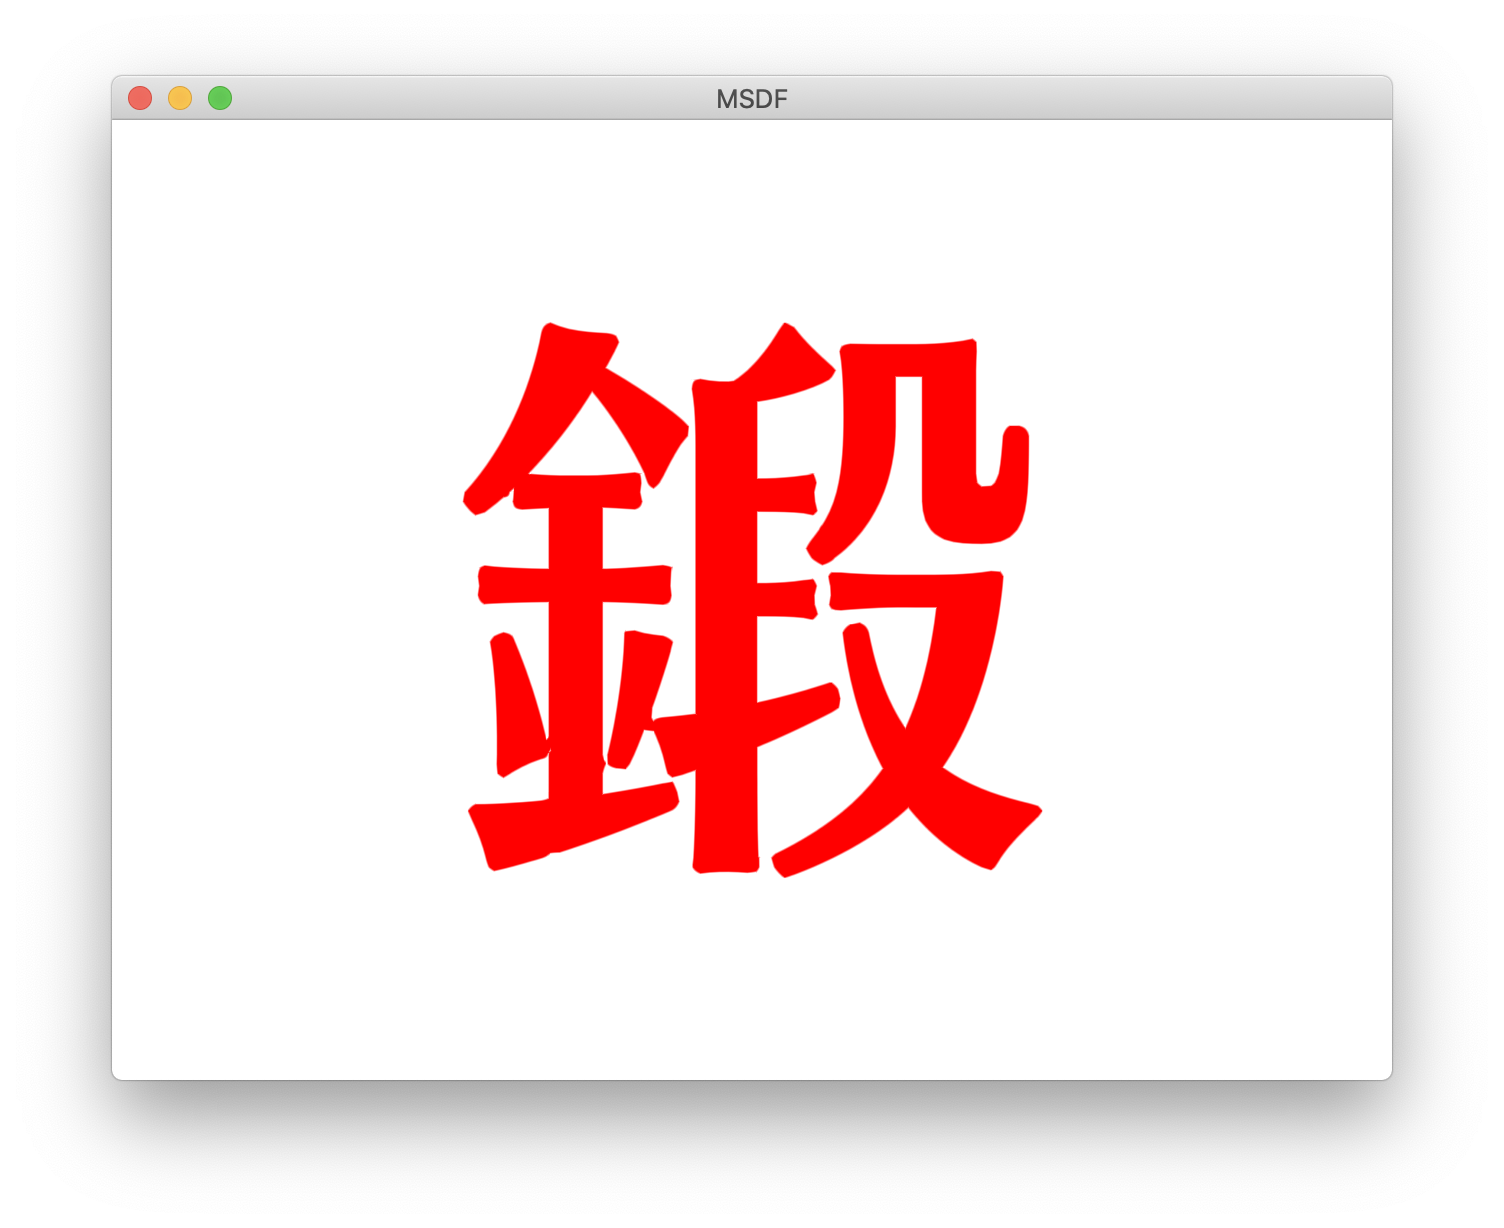
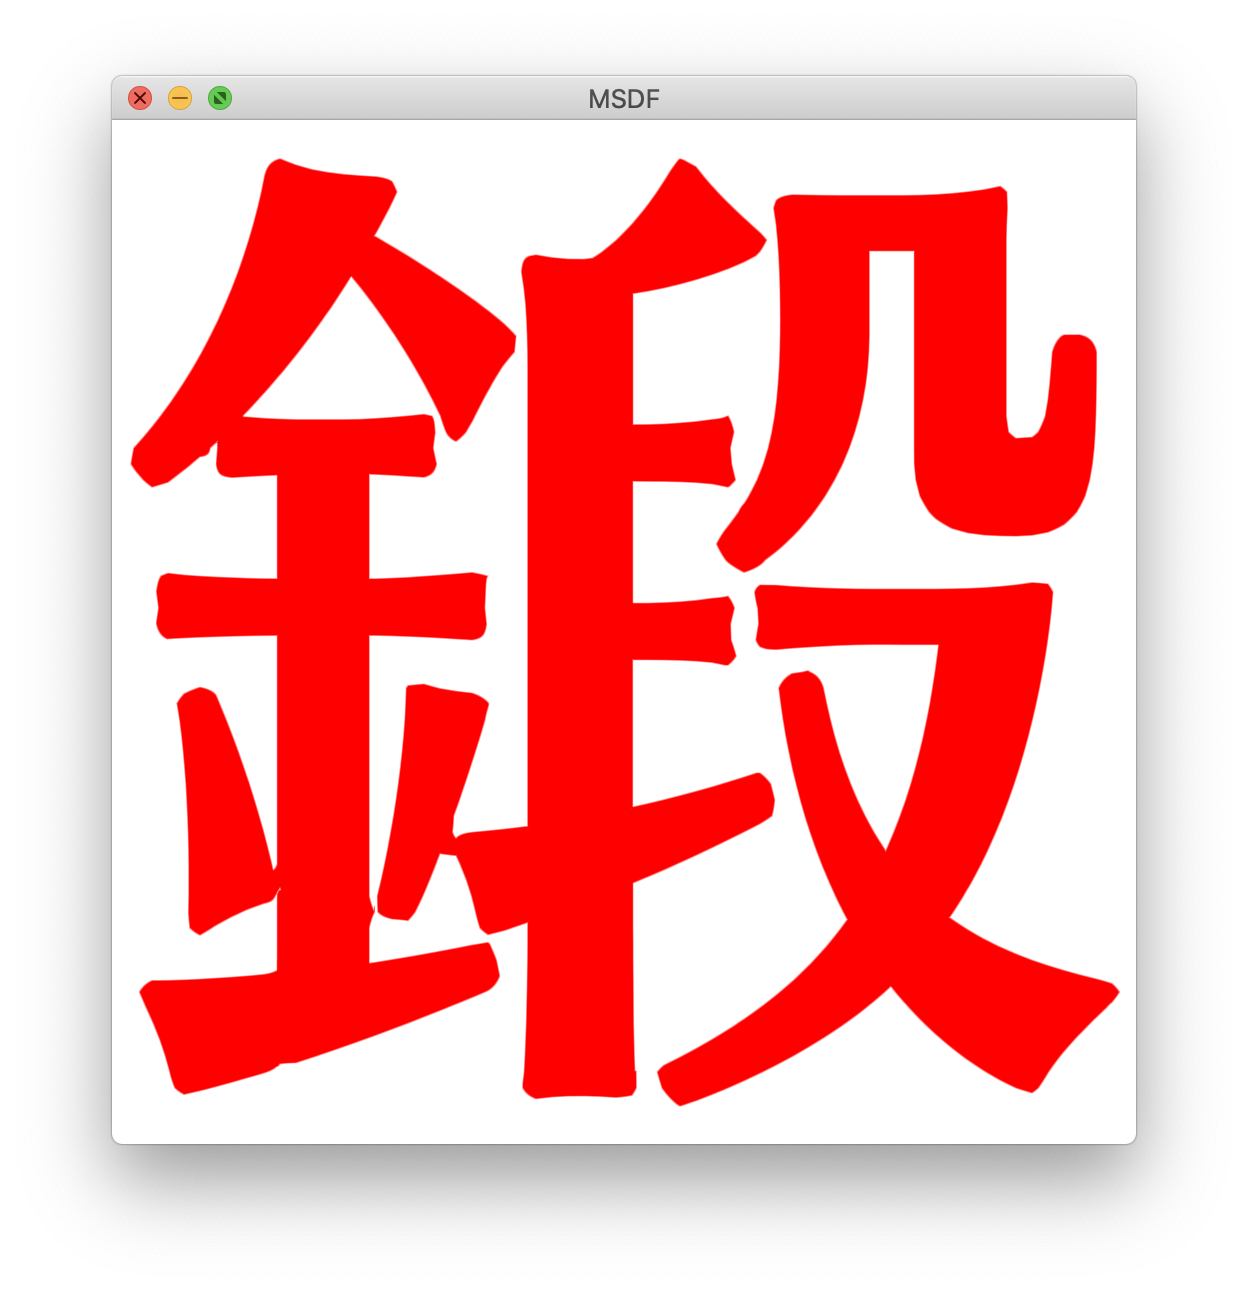
Code cleaning

diff --git a/gfx.go b/gfx.go
@@ -8,35 +8,10 @@ import (
 	"os"
 
 	"github.com/go-gl/gl/all-core/gl"
-	"github.com/go-gl/glfw/v3.2/glfw"
 )
 
-func textureLoad(rgba *image.RGBA) uint32 {
-	var texture uint32
-	gl.GenTextures(1, &texture)
-	gl.ActiveTexture(gl.TEXTURE1)
-	gl.BindTexture(gl.TEXTURE_2D, texture)
-	gl.TexParameteri(gl.TEXTURE_2D, gl.TEXTURE_MIN_FILTER, gl.LINEAR)
-	gl.TexParameteri(gl.TEXTURE_2D, gl.TEXTURE_MAG_FILTER, gl.LINEAR)
-	gl.TexParameteri(gl.TEXTURE_2D, gl.TEXTURE_WRAP_S, gl.CLAMP_TO_EDGE)
-	gl.TexParameteri(gl.TEXTURE_2D, gl.TEXTURE_WRAP_T, gl.CLAMP_TO_EDGE)
-	gl.PixelStorei(gl.UNPACK_ROW_LENGTH, 0)
-	gl.TexImage2D(
-		gl.TEXTURE_2D,
-		0,
-		gl.RGBA,
-		int32(rgba.Rect.Size().X),
-		int32(rgba.Rect.Size().Y),
-		0,
-		gl.RGBA,
-		gl.UNSIGNED_BYTE,
-		gl.Ptr(rgba.Pix))
-
-	return texture
-}
-
-// NewImage opens an image file, upload it the the GPU and returns the texture id
-func NewImage(file string) (uint32, error) {
+// loadImage opens an image file, upload it the the GPU and returns the texture id
+func loadImage(file string) (uint32, error) {
 	imgFile, err := os.Open(file)
 	if err != nil {
 		return 0, err
@@ -52,45 +27,27 @@ func NewImage(file string) (uint32, error) {
 	}
 	draw.Draw(rgba, rgba.Bounds(), img, image.Point{0, 0}, draw.Src)
 
-	return textureLoad(rgba), nil
+	return loadTexture(rgba), nil
 }
 
-// XYWHTo4points converts coordinates from (x, y, width, height) to (x1, y1, x2, y2, x3, y3, x4, y4)
-func XYWHTo4points(x, y, w, h, fbh float32) (x1, y1, x2, y2, x3, y3, x4, y4 float32) {
-	x1 = x
-	x2 = x
-	x3 = x + w
-	x4 = x + w
-	y1 = fbh - (y + h)
-	y2 = fbh - y
-	y3 = fbh - (y + h)
-	y4 = fbh - y
-	return
-}
+func loadTexture(rgba *image.RGBA) uint32 {
+	var texture uint32
+	gl.GenTextures(1, &texture)
+	gl.ActiveTexture(gl.TEXTURE1)
+	gl.BindTexture(gl.TEXTURE_2D, texture)
+	gl.TexParameteri(gl.TEXTURE_2D, gl.TEXTURE_MIN_FILTER, gl.LINEAR)
+	gl.TexParameteri(gl.TEXTURE_2D, gl.TEXTURE_MAG_FILTER, gl.LINEAR)
+	gl.PixelStorei(gl.UNPACK_ROW_LENGTH, 0)
+	gl.TexImage2D(
+		gl.TEXTURE_2D,
+		0,
+		gl.RGBA,
+		int32(rgba.Rect.Size().X),
+		int32(rgba.Rect.Size().Y),
+		0,
+		gl.RGBA,
+		gl.UNSIGNED_BYTE,
+		gl.Ptr(rgba.Pix))
 
-func vertexArray(window *glfw.Window, x, y, w, h, scale float32) []float32 {
-	fbw, fbh := window.GetFramebufferSize()
-	ffbw := float32(fbw)
-	ffbh := float32(fbh)
-
-	w *= scale
-	h *= scale
-
-	x1, y1, x2, y2, x3, y3, x4, y4 := XYWHTo4points(x, y, w, h, ffbh)
-
-	return []float32{
-		//  X, Y, U, V
-		x1/ffbw*2 - 1, y1/ffbh*2 - 1, 0, 1, // left-bottom
-		x2/ffbw*2 - 1, y2/ffbh*2 - 1, 0, 0, // left-top
-		x3/ffbw*2 - 1, y3/ffbh*2 - 1, 1, 1, // right-bottom
-		x4/ffbw*2 - 1, y4/ffbh*2 - 1, 1, 0, // right-top
-	}
-}
-
-var vertices = []float32{
-	//  X, Y, U, V
-	-1.0, -1.0, 0.0, 1.0, // left-bottom
-	-1.0, 1.0, 0.0, 0.0, // left-top
-	1.0, -1.0, 1.0, 1.0, // right-bottom
-	1.0, 1.0, 1.0, 0.0, // right-top
+	return texture
 }

diff --git a/main.go b/main.go
@@ -25,7 +25,7 @@ func main() {
 	glfw.WindowHint(glfw.OpenGLForwardCompatible, glfw.True)
 	glfw.WindowHint(glfw.OpenGLProfile, glfw.OpenGLCoreProfile)
 
-	window, err := glfw.CreateWindow(640, 480, "MSDF", nil, nil)
+	window, err := glfw.CreateWindow(512, 512, "MSDF", nil, nil)
 	if err != nil {
 		panic(err)
 	}
@@ -51,7 +51,6 @@ func main() {
 
 	gl.GenBuffers(1, &vbo)
 	gl.BindBuffer(gl.ARRAY_BUFFER, vbo)
-	gl.BufferData(gl.ARRAY_BUFFER, len(vertices)*4, gl.Ptr(vertices), gl.STATIC_DRAW)
 
 	vertAttrib := uint32(gl.GetAttribLocation(program, gl.Str("vert\x00")))
 	gl.EnableVertexAttribArray(vertAttrib)
@@ -61,17 +60,22 @@ func main() {
 	gl.EnableVertexAttribArray(texCoordAttrib)
 	gl.VertexAttribPointer(texCoordAttrib, 2, gl.FLOAT, false, 4*4, gl.PtrOffset(2*4))
 
-	image, err := NewImage("foo.png")
+	image, err := loadImage("glyph.png")
 	if err != nil {
 		panic(err)
+	}
+
+	var vertices = []float32{
+		// X, Y, U, V
+		-1, -1, 0, 1, // left-bottom
+		-1, +1, 0, 0, // left-top
+		+1, -1, 1, 1, // right-bottom
+		+1, +1, 1, 0, // right-top
 	}
 
 	for !window.ShouldClose() {
 		gl.ClearColor(1, 1, 1, 1)
 		gl.Clear(gl.COLOR_BUFFER_BIT)
-
-		va := vertexArray(window, 640-300, 480-300, 600, 600, 1)
-
 		gl.UseProgram(program)
 		gl.Enable(gl.BLEND)
 		gl.BlendFunc(gl.SRC_ALPHA, gl.ONE_MINUS_SRC_ALPHA)
@@ -79,7 +83,7 @@ func main() {
 		gl.ActiveTexture(gl.TEXTURE0)
 		gl.BindTexture(gl.TEXTURE_2D, image)
 		gl.BindBuffer(gl.ARRAY_BUFFER, vbo)
-		gl.BufferData(gl.ARRAY_BUFFER, len(va)*4, gl.Ptr(va), gl.STATIC_DRAW)
+		gl.BufferData(gl.ARRAY_BUFFER, len(vertices)*4, gl.Ptr(vertices), gl.STATIC_DRAW)
 		gl.DrawArrays(gl.TRIANGLE_STRIP, 0, 4)
 		gl.BindVertexArray(0)
 		gl.BindTexture(gl.TEXTURE_2D, 0)
